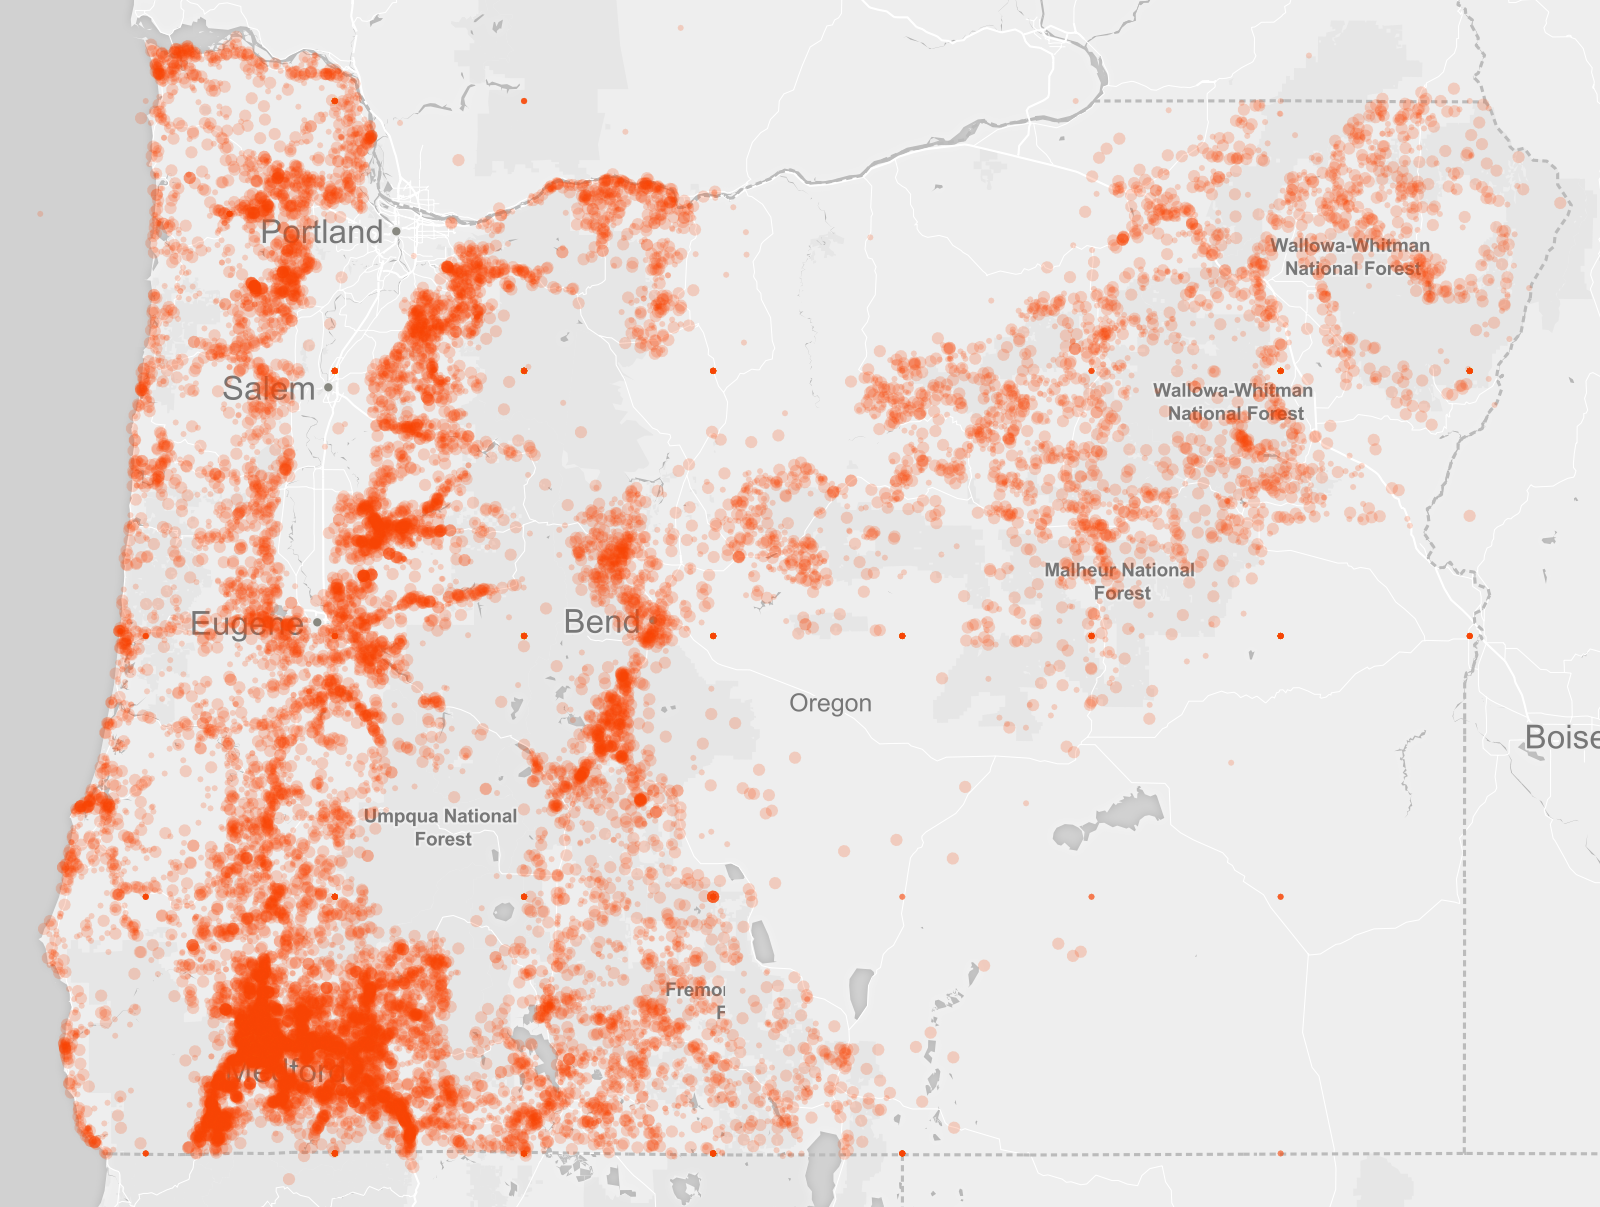
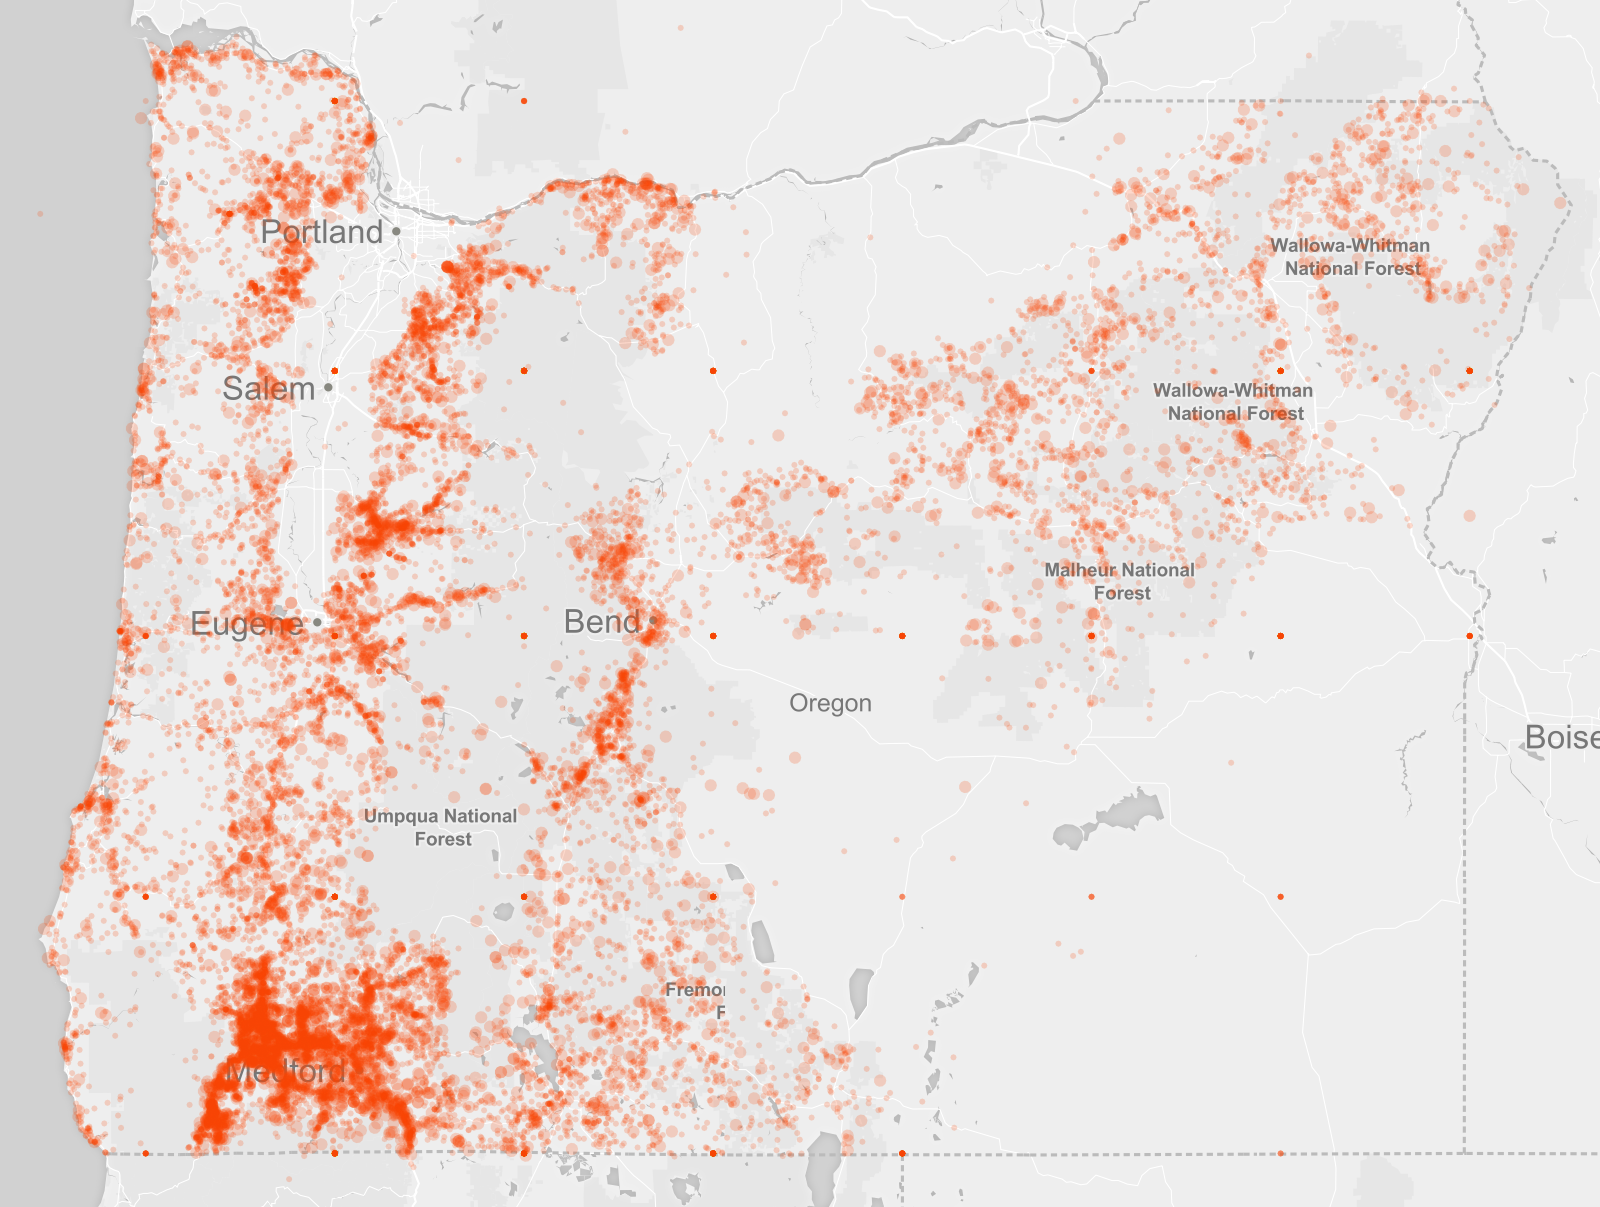
complete most of script on to step 6

diff --git a/oregon-fire/script.md b/oregon-fire/script.md
@@ -41,6 +41,14 @@ Point out markers in the ocean and oddly even-spaced points inside Oregon as a g
 
 * Note how not all markers aren't drawn.  Enabled `marker-allow-overlap`.
 
+Talk about the disperety between Medford and Portland.  There are about 77k people in Medford vs. about 620k people in Portland.  
+
+Q. What could that tell us about the fires?
+A. More people != more fires.  
+
+Q. What do we *think* might be causing the fires in Medford?
+A. ...Later
+
 ```css
 #fires {
   marker-width: 3;
@@ -53,7 +61,7 @@ Point out markers in the ocean and oddly even-spaced points inside Oregon as a g
 
   ![](./images/step-3.png)
 
-* Style different years as a different size.
+* Style recent (>=2014) fires a different color.
 
 Discuss the need for some kind of spreadsheet application or a database.  Something that helps you ask questions of the data to find out what message you're trying to convey.
 
@@ -65,7 +73,7 @@ Discuss the need for some kind of spreadsheet application or a database.  Someth
   marker-allow-overlap: true;
   marker-opacity: 0.2;
 
-  [year >= 2010] {
+  [year >= 2014] {
     marker-width: 6;
   }
  }
@@ -74,9 +82,54 @@ Discuss the need for some kind of spreadsheet application or a database.  Someth
 ![](./images/step-4.png)
 
 
+* Use description to style "motorist" a different direction.
 
-* Combine with radius for year to create smaller circles for older years
-* [Maybe] Discuss zoom-level styling
+```css
+#fires {
+  marker-width: 3;
+  marker-fill: orangered;
+  marker-line-width: 0;
+  marker-allow-overlap: true;
+  marker-opacity: 0.2;
+
+  [year >= 2014] {
+    marker-width: 6;
+  }
+
+  [cause='motorist'] {
+   marker-fill: purple;
+   marker-opacity: 0.5;
+  }
+ }
+ ```
+
+![](./images/step-5.png)
+
+* Change cause to lightning.  Talk about how it aligns with Medford.
+
+```css
+#fires {
+  marker-width: 2;
+  marker-fill: orangered;
+  marker-line-width: 0;
+  marker-allow-overlap: true;
+  marker-opacity: 0.5;
+  marker-comp-op: hard-light;
+
+  [year >= 2014] {
+    marker-width: 4;
+  }
+
+  [cause='lightning'] {
+   marker-fill: purple;
+   marker-opacity: 0.5;
+  }
+ }
+```
+
+![](./images/step-6.png)
+
+
 * Move on to using an emoji or vector symbol for fire
 
 ### What next? Things you can do at home
